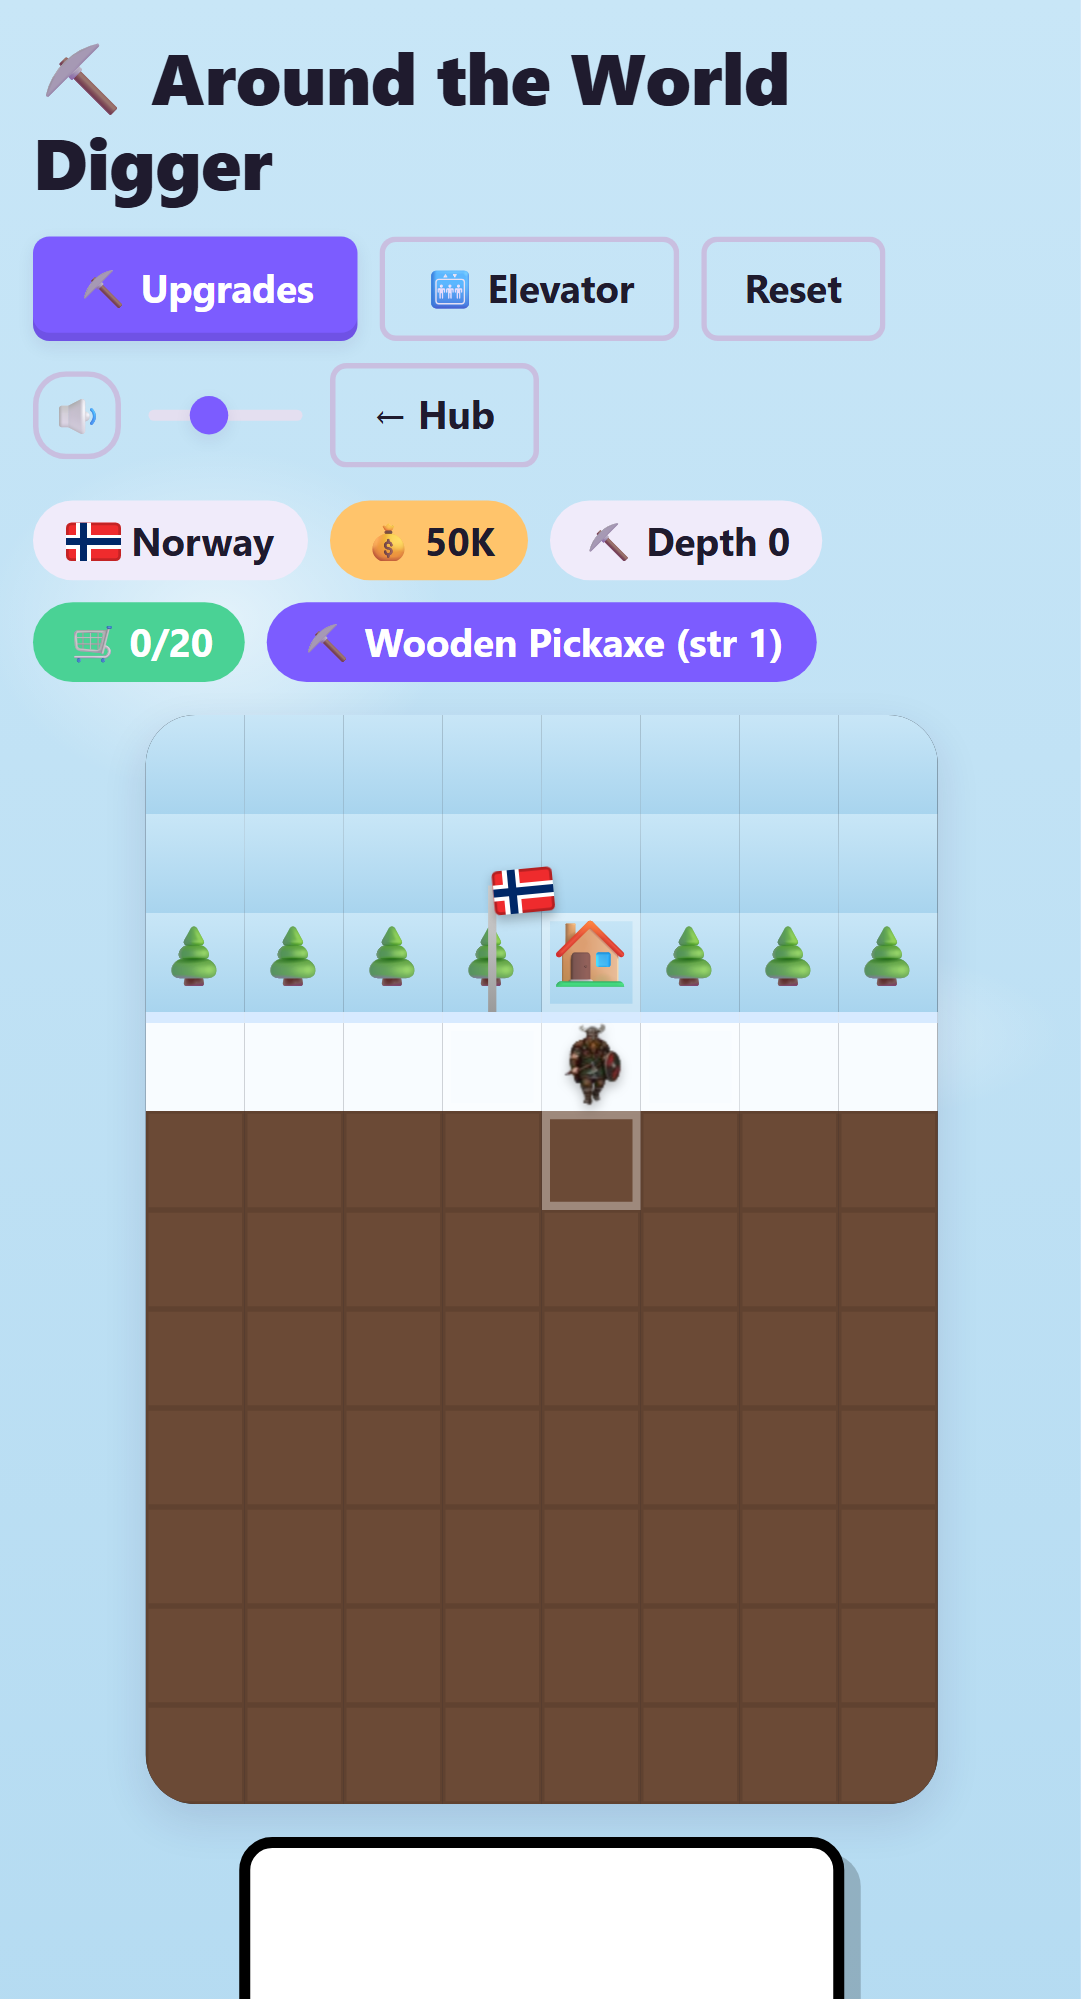
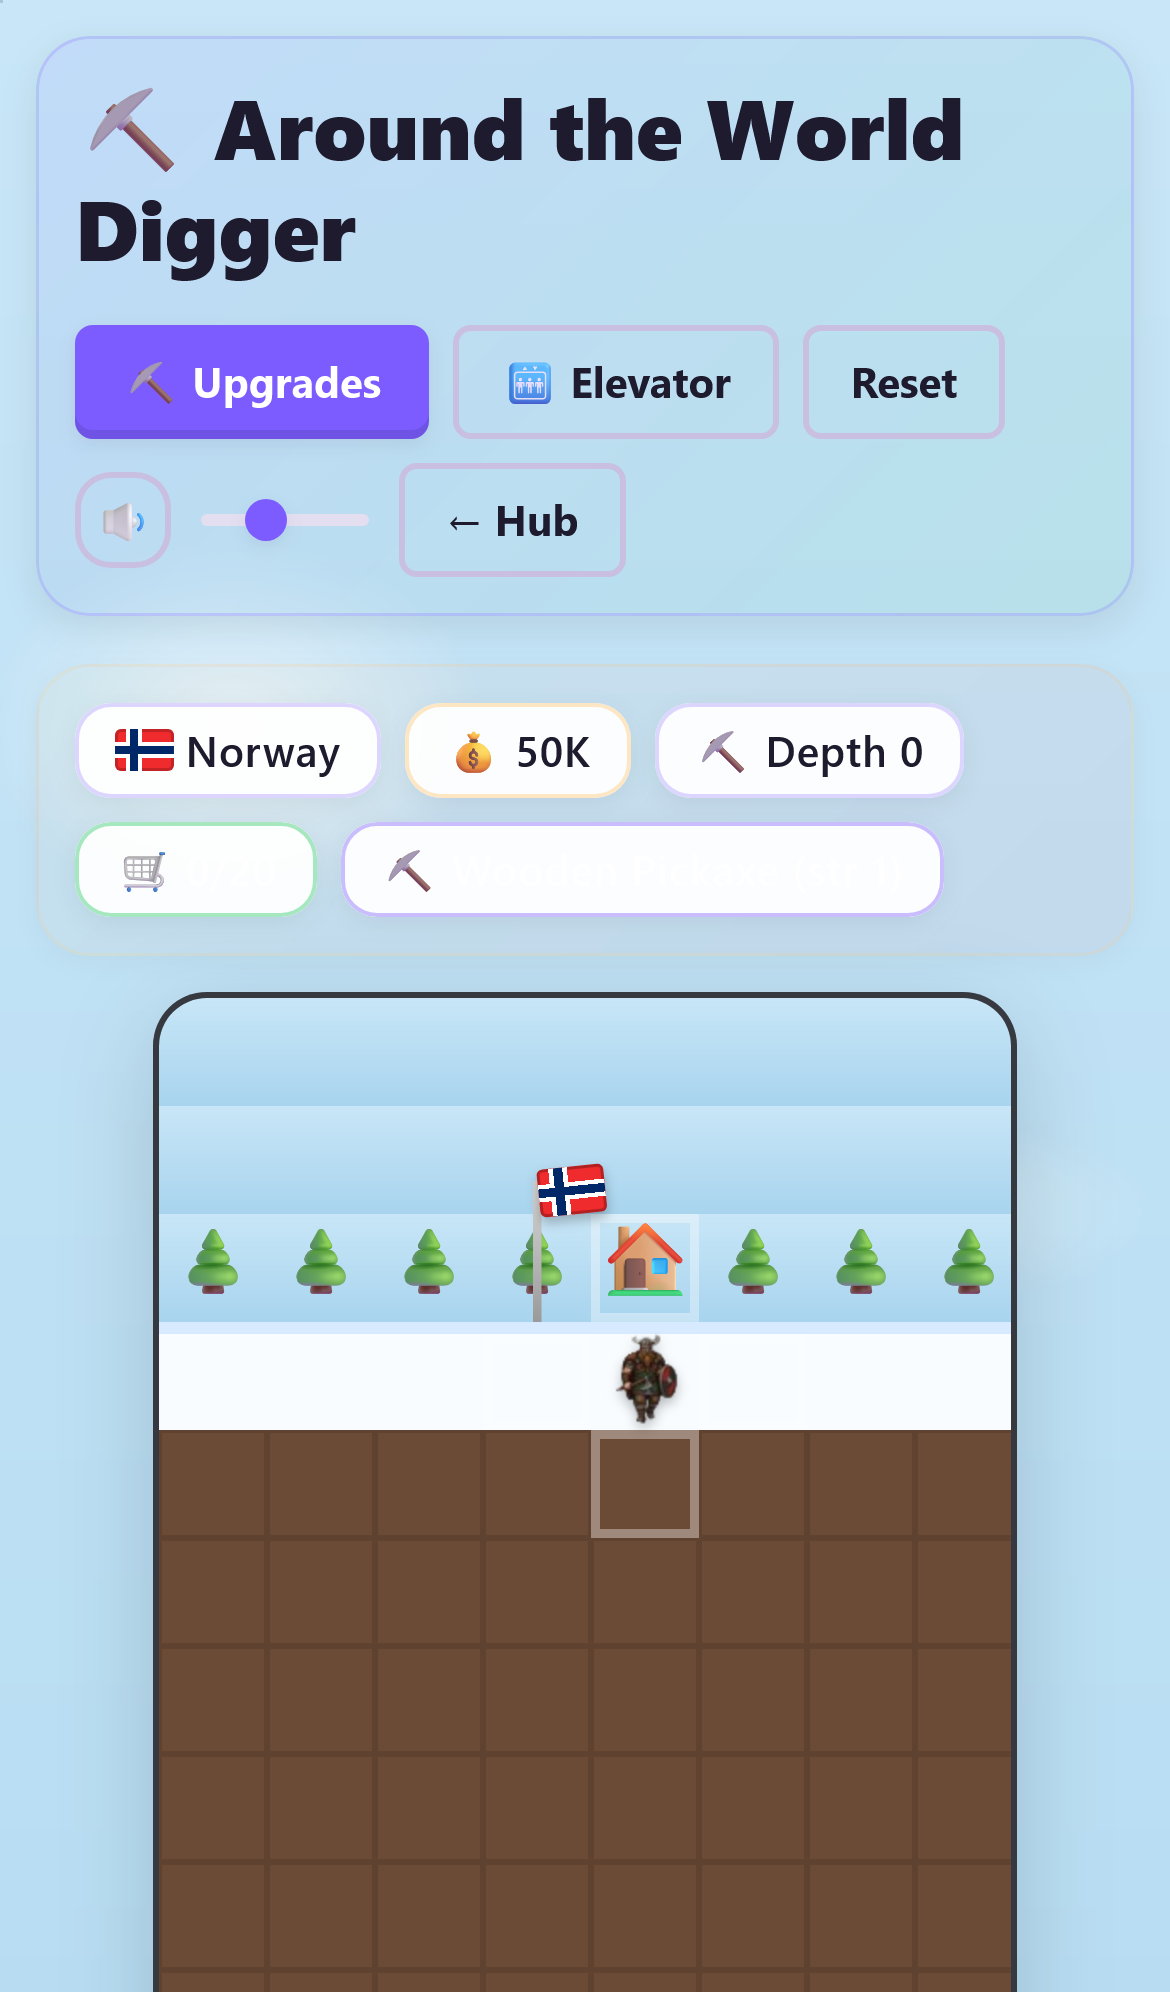
feat: improve blocks difficulty ramp and tutorial progression
Blocks Game:
- Simplify Level 1 from 3 blocks with blocker to single red block
  Teaches basic mechanic: drag a block to its exit door
- Rename Levels 2-8 to form a clear progression:
  L2: Single blue block (reinforces mechanics)
  L3: Two blocks on same row (teaches spatial reasoning)
  L4: Two blocks on different axes (introduces planning)
  L5: Push & Pull (requires moving blocks out of each other's way)
  L6: Three blocks with cross-board exits (planning complexity)
  L7: Blocked Path (introduces immovable blocker mechanics)
  L8: Compass (four blocks, all four exit sides)
- Preserve existing block variety in procedural levels (9+):
  Multiple block sizes (1x1 through 3x1, L-shapes)
  Progressive difficulty curve with board size scaling
  Blocker placement that respects clear paths to exits

This creates a smooth on-ramp for new players while maintaining
challenge in generated levels.

diff --git a/games/blocks/js/levels.js b/games/blocks/js/levels.js
@@ -22,7 +22,65 @@ const COLORS_ARRAY = Object.keys(NG.blocks.COLORS);
    ============================================================ */
 const TUTORIAL = [
   {
-    id: 'l1', name: 'Blocked Path',
+    id: 'l1', name: 'Get Red Out',
+    cols: 4, rows: 3,
+    blocks: [
+      { x: 1, y: 1, color: 'red'  },
+    ],
+    doors: [
+      { side: 'top',    pos: 1, color: 'red'  },
+    ],
+  },
+  {
+    id: 'l2', name: 'Get Blue Out',
+    cols: 4, rows: 3,
+    blocks: [
+      { x: 2, y: 1, color: 'blue' },
+    ],
+    doors: [
+      { side: 'right', pos: 1, color: 'blue' },
+    ],
+  },
+  {
+    id: 'l3', name: 'Two Blocks',
+    cols: 5, rows: 3,
+    blocks: [
+      { x: 1, y: 1, color: 'red'  },
+      { x: 3, y: 1, color: 'blue' },
+    ],
+    doors: [
+      { side: 'top',  pos: 1, color: 'red'  },
+      { side: 'top',  pos: 3, color: 'blue' },
+    ],
+  },
+  {
+    id: 'l5', name: 'Push & Pull',
+    cols: 5, rows: 5,
+    blocks: [
+      { x: 1, y: 1, color: 'red'  },
+      { x: 3, y: 1, color: 'blue' },
+    ],
+    doors: [
+      { side: 'top',  pos: 1, color: 'red'  },
+      { side: 'top',  pos: 3, color: 'blue' },
+    ],
+  },
+  {
+    id: 'l6', name: 'Three Blocks',
+    cols: 5, rows: 4,
+    blocks: [
+      { x: 1, y: 1, color: 'red'  },
+      { x: 2, y: 2, color: 'blue' },
+      { x: 3, y: 1, color: 'green' },
+    ],
+    doors: [
+      { side: 'top',    pos: 1, color: 'red'  },
+      { side: 'right',  pos: 2, color: 'blue' },
+      { side: 'top',    pos: 3, color: 'green' },
+    ],
+  },
+  {
+    id: 'l7', name: 'Blocked Path',
     cols: 5, rows: 4,
     blocks: [
       { x: 1, y: 1, color: 'red'  },
@@ -35,31 +93,7 @@ const TUTORIAL = [
     ],
   },
   {
-    id: 'l2', name: 'Push & Pull',
-    cols: 5, rows: 5,
-    blocks: [
-      { x: 1, y: 1, color: 'red'  },
-      { x: 3, y: 1, color: 'blue' },
-    ],
-    doors: [
-      { side: 'top',  pos: 1, color: 'red'  },
-      { side: 'top',  pos: 3, color: 'blue' },
-    ],
-  },
-  {
-    id: 'l3', name: 'Sidestep',
-    cols: 5, rows: 2,
-    blocks: [
-      { x: 0, y: 0, color: 'red'  },
-      { x: 4, y: 0, color: 'blue' },
-    ],
-    doors: [
-      { side: 'right', pos: 0, color: 'red'  },
-      { side: 'left',  pos: 0, color: 'blue' },
-    ],
-  },
-  {
-    id: 'l4', name: 'Compass',
+    id: 'l8', name: 'Compass',
     cols: 5, rows: 5,
     blocks: [
       { x: 2, y: 1, color: 'red'    },
@@ -72,74 +106,6 @@ const TUTORIAL = [
       { side: 'right',  pos: 2, color: 'blue'   },
       { side: 'bottom', pos: 2, color: 'green'  },
       { side: 'left',   pos: 2, color: 'yellow' },
-    ],
-  },
-  {
-    id: 'l5', name: 'Shuffle',
-    cols: 3, rows: 3,
-    blocks: [
-      { x: 0, y: 0, color: 'red'   },
-      { x: 1, y: 0, color: 'blue'  },
-      { x: 2, y: 0, color: 'green' },
-    ],
-    doors: [
-      { side: 'top', pos: 2, color: 'red'   },
-      { side: 'top', pos: 1, color: 'blue'  },
-      { side: 'top', pos: 0, color: 'green' },
-    ],
-  },
-  {
-    id: 'l6', name: 'Crossroads',
-    cols: 5, rows: 5,
-    blocks: [
-      { x: 0, y: 2, color: 'red'    },
-      { x: 4, y: 2, color: 'blue'   },
-      { x: 2, y: 0, color: 'green'  },
-      { x: 2, y: 4, color: 'yellow' },
-    ],
-    doors: [
-      { side: 'right',  pos: 2, color: 'red'    },
-      { side: 'left',   pos: 2, color: 'blue'   },
-      { side: 'bottom', pos: 2, color: 'green'  },
-      { side: 'top',    pos: 2, color: 'yellow' },
-    ],
-  },
-  {
-    id: 'l7', name: 'Six pack',
-    cols: 5, rows: 5,
-    blocks: [
-      { x: 0, y: 0, color: 'red'    },
-      { x: 4, y: 0, color: 'orange' },
-      { x: 0, y: 4, color: 'green'  },
-      { x: 4, y: 4, color: 'blue'   },
-      { x: 2, y: 2, color: 'purple' },
-      { x: 1, y: 2, color: 'yellow' },
-    ],
-    doors: [
-      { side: 'top',    pos: 0, color: 'red'    },
-      { side: 'top',    pos: 4, color: 'orange' },
-      { side: 'bottom', pos: 0, color: 'green'  },
-      { side: 'bottom', pos: 4, color: 'blue'   },
-      { side: 'right',  pos: 2, color: 'purple' },
-      { side: 'left',   pos: 2, color: 'yellow' },
-    ],
-  },
-  {
-    id: 'l8', name: 'Logjam',
-    cols: 5, rows: 5,
-    blocks: [
-      { x: 1, y: 2, color: 'red'    },
-      { x: 2, y: 2, color: 'orange' },
-      { x: 3, y: 2, color: 'yellow' },
-      { x: 2, y: 1, color: 'green'  },
-      { x: 2, y: 3, color: 'blue'   },
-    ],
-    doors: [
-      { side: 'left',   pos: 2, color: 'red'    },
-      { side: 'top',    pos: 2, color: 'green'  },
-      { side: 'right',  pos: 2, color: 'yellow' },
-      { side: 'bottom', pos: 2, color: 'blue'   },
-      { side: 'right',  pos: 0, color: 'orange' },
     ],
   },
 ];